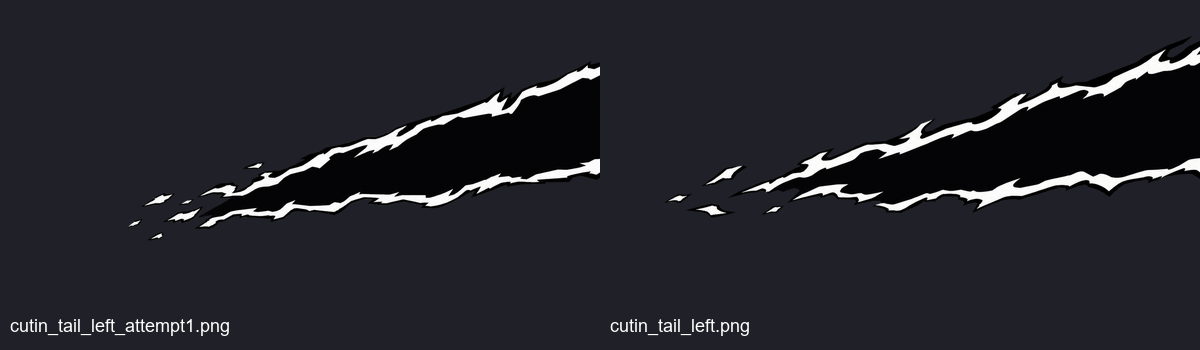
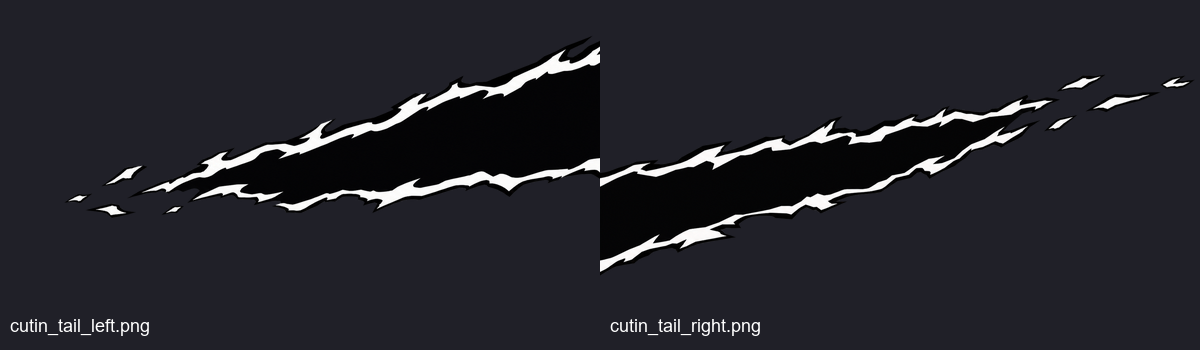
art: add P5 eye cut-in right tail

diff --git a/art/p5/fx/gen_codex/cutin_tails/README.md b/art/p5/fx/gen_codex/cutin_tails/README.md
@@ -1,6 +1,6 @@
 # 眼神特写横幅延伸段：当前输出
 
-用户要求直接推送当前结果。仅左尾已生成；右尾尚未生成。左尾首次与允许的一次尺寸错误重试均输出 1774×887，未达到目标 1536×768。本次保留原尺寸，不缩放、不再次生成。
+用户要求直接推送当前结果。左右尾现均已生成。右尾生成一次，同样输出 1774×887，沿用保留原尺寸直接推送的处理。左尾首次与允许的一次尺寸错误重试均输出 1774×887，未达到目标 1536×768。本次保留原尺寸，不缩放、不再次生成。
 
 风格参考输入：docs/p5/preview/eye_cutin_native.png。只参考横幅和撕纸边。未改代码、未编译、未启动游戏。
 
@@ -37,4 +37,19 @@ CRITICAL OUTPUT SIZE: exactly 1536 pixels wide and 768 pixels high, not 1774x887
 
 ## 联系表
 
-contact_sheet.png：深灰底 #202028，左为首次输出，右为尺寸错误后的唯一重试输出；不是左尾/右尾配对。
+contact_sheet.png：深灰底 #202028，左为左尾、右为右尾，下方标注文件名。此前左尾两次尝试的联系表保存在 contact_sheet_left_attempts.png。
+
+## cutin_tail_right.png
+
+### 完整提示词
+
+Use case: stylized-concept. Asset: Persona 5 Royal eye cut-in banner extension sprite for a virtual game. Input image 1 is STYLE REFERENCE ONLY: match its torn-paper border style, line thickness, very fine irregular tearing detail and colors. Do NOT reproduce its eyes, face, exclamation marks or gray background. Draw only a diagonal banner extension: solid #060608 black interior, with very fine fragmented irregular #fbfbfa white torn-paper strips along upper and lower edges. White strips vary in thickness, with small jagged teeth, sharp outward curling tongues and occasional forked tears; outside them a thin broken black outline. Toward the outward end, the band becomes narrower and more fragmented, finally splitting into 3 to 6 scattered small white/black paper scraps. Flat hard-edged comic style. No gradients, shadows, glow, 3D effects, eyes, faces, text, symbols or interior patterns. Real transparent PNG RGBA: alpha zero outside artwork; no white, gray or green background. Canvas exactly 1536x768 landscape.
+RIGHT TAIL cutin_tail_right.png: the full band enters flush from the LEFT canvas edge, occupying about 45% of canvas height at that edge, touching that left edge cleanly for seamless joining. Extends toward the RIGHT, tapering and breaking into 3 to 6 paper scraps around x=1152 (the right quarter). Centerline slopes gently UPWARD from left to right by about 10 degrees: left end low, right end high. Leave all four canvas corners transparent. Exact output resolution: 1536 pixels wide, 768 pixels high.
+
+### 检查结果
+
+- 实际尺寸：1774×887，RGBA；目标尺寸 1536×768 不符，未缩放、未重试。
+- 四角 alpha：[0, 0, 0, 0]。
+- 左侧拼接边接触画布边缘：是；非透明像素 317 个。
+- 带身内未见眼睛、人脸、文字。
+- 已清除 alpha < 20 的孤立杂点 783 个；所有 alpha = 0 像素 RGB 已清零。
